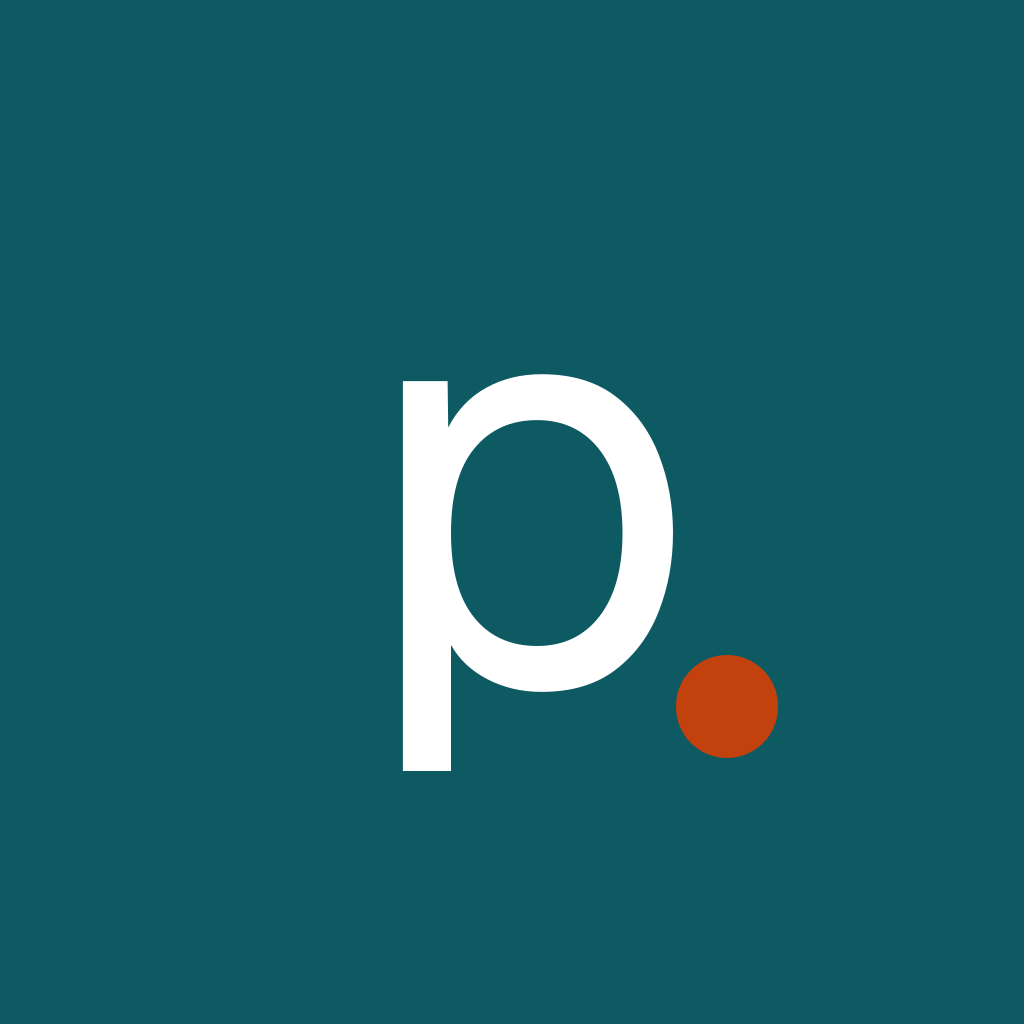
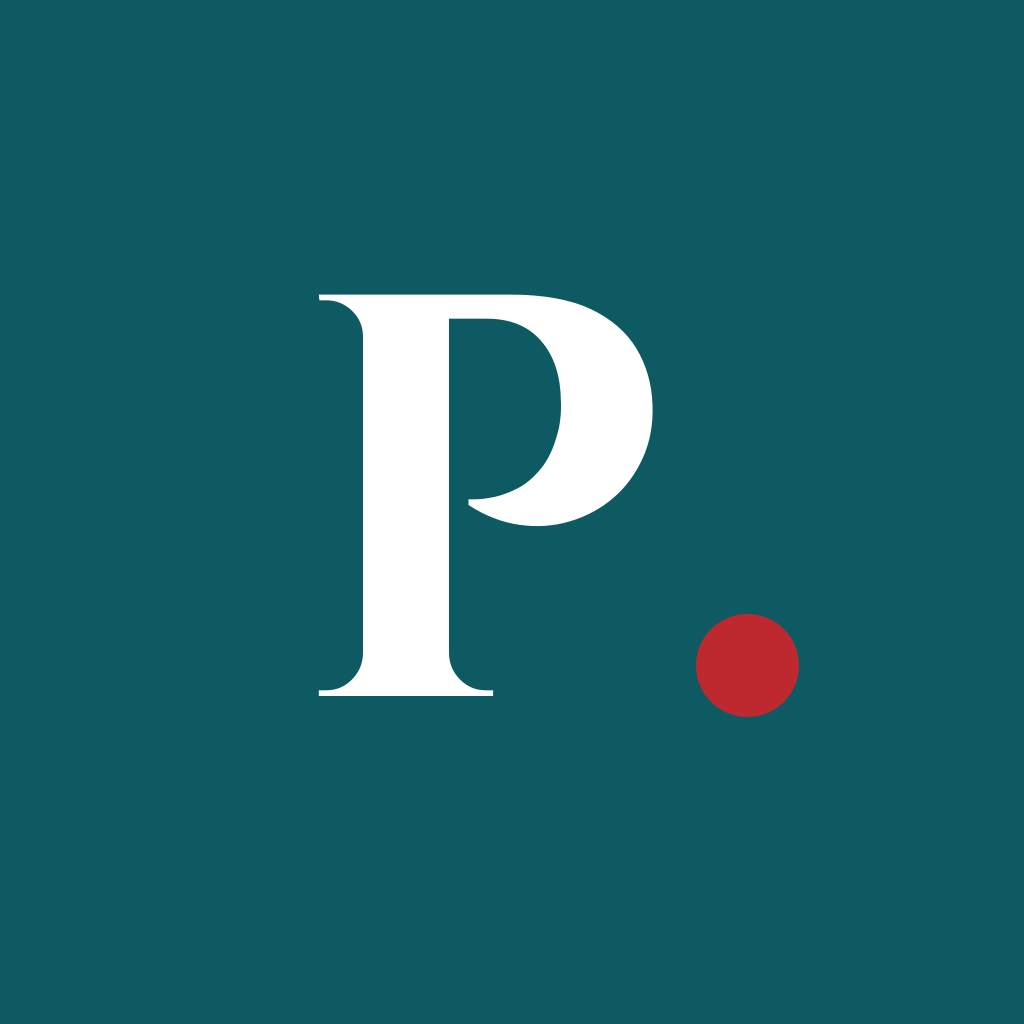
Original design back, with a Cinzel wordmark and a touch of crest red
The silver/ink/crimson redesign is reverted (the user didn't like it). On top of the original teal
design, only:

- the wordmark in Cinzel capitals ("PAXEN"), echoing the "PAX" lettering on the crest behind the name
  (web via next/font, iPhone via @expo-google-fonts/cinzel, loaded before the splash hides)
- the dot after the wordmark and on the app icon in the crest's crimson (new `crest` token, a detail
  only; red/orange for delays stays `attention`)
- the app icon: the same teal tile with a Cinzel "P" and the crimson dot
- switch thumb stays white on web (react-native-web otherwise turns it teal)

Claude-Session: https://claude.ai/code/session_01WxnpJ4hpE5FC5QPxgLUK2h

Changed region(s): [[0.3125, 0.2812, 0.6562, 0.75], [0.6562, 0.5938, 0.7812, 0.75]]

diff --git a/web/app/icons/[size]/route.tsx b/web/app/icons/[size]/route.tsx
@@ -1,3 +1,5 @@
+import { readFile } from 'node:fs/promises'
+import { join } from 'node:path'
 import { ImageResponse } from 'next/og'
 import { palettes } from '@/lib/paxen-tokens'
 
@@ -9,10 +11,13 @@ export function generateStaticParams() {
   return [...ALLOWED].map((size) => ({ size: String(size) }))
 }
 
+// Cinzel 700, subset to the single glyph "P" (SIL Open Font License), vendored so the build needs no network.
+const cinzel = readFile(join(process.cwd(), 'assets/cinzel-700-p.ttf'))
+
 export async function GET(_req: Request, { params }: { params: Promise<{ size: string }> }) {
   const { size: raw } = await params
   const size = ALLOWED.has(Number(raw)) ? Number(raw) : 192
-  const { brand, onBrand, attention } = palettes.light
+  const { brand, onBrand, crest } = palettes.light
 
   return new ImageResponse(
     (
@@ -25,26 +30,30 @@ export async function GET(_req: Request, { params }: { params: Promise<{ size: s
           justifyContent: 'center',
           background: brand,
           color: onBrand,
+          fontFamily: 'Cinzel',
           fontSize: size * 0.56,
           fontWeight: 700,
-          letterSpacing: -size * 0.03,
           position: 'relative',
         }}
       >
-        <span style={{ marginTop: -size * 0.06 }}>p</span>
+        <span style={{ marginTop: size * 0.02, marginRight: size * 0.06 }}>P</span>
         <div
           style={{
             position: 'absolute',
-            right: size * 0.24,
-            bottom: size * 0.26,
+            right: size * 0.22,
+            bottom: size * 0.3,
             width: size * 0.1,
             height: size * 0.1,
             borderRadius: size,
-            background: attention,
+            background: crest,
           }}
         />
       </div>
     ),
-    { width: size, height: size },
+    {
+      width: size,
+      height: size,
+      fonts: [{ name: 'Cinzel', data: await cinzel, weight: 700, style: 'normal' }],
+    },
   )
 }

diff --git a/mobile/src/components/transit.tsx b/mobile/src/components/transit.tsx
@@ -19,6 +19,7 @@ import { fmtTime, fmtWait } from '@/shared/format'
 import { modeColors, radii } from '@/shared/paxen-tokens'
 import { CONFIDENCE_PLAIN, stillOnChance, stillOnWords, waitBasisHint } from '@/shared/plain'
 import type { CommuteStatus, Confidence, Disruption, Leg, LineCategory, Mode, RouteOption } from '@/shared/types'
+import { WORDMARK_FONT } from '@/lib/fonts'
 import { alpha, usePalette, type Palette } from '@/lib/theme'
 import { Sheet } from './sheet'
 import { Text } from './text'
@@ -29,12 +30,13 @@ type Icon = ComponentType<{ size?: number; color?: string; strokeWidth?: number 
 /* ---------- wordmark ---------- */
 
 /** Text wordmark: lowercase, tight, with a "signal" dot that reads as on-time. */
+/** Roman capitals (Cinzel, as on the crest behind the name) and a crest-red dot. */
 export function Wordmark({ size = 22 }: { size?: number }) {
   const p = usePalette()
   return (
-    <View accessibilityLabel="Paxen" style={{ flexDirection: 'row', alignItems: 'flex-end' }}>
-      <Text style={{ fontSize: size, lineHeight: size * 1.1, fontWeight: '800', letterSpacing: -0.055 * size, color: p.brand }}>paxen</Text>
-      <View style={{ width: size * 0.26, height: size * 0.26, borderRadius: size, backgroundColor: p.success, marginLeft: size * 0.08, marginBottom: size * 0.16 }} />
+    <View accessible accessibilityLabel="Paxen" style={{ flexDirection: 'row', alignItems: 'flex-end' }}>
+      <Text style={{ fontFamily: WORDMARK_FONT, fontSize: size, lineHeight: size * 1.2, letterSpacing: 0.06 * size, color: p.brand }}>PAXEN</Text>
+      <View style={{ width: size * 0.22, height: size * 0.22, borderRadius: size, backgroundColor: p.crest, marginLeft: size * 0.04, marginBottom: size * 0.26 }} />
     </View>
   )
 }

diff --git a/mobile/src/app/_layout.tsx b/mobile/src/app/_layout.tsx
@@ -1,11 +1,13 @@
 import { useEffect } from 'react'
 import { AppState, useColorScheme } from 'react-native'
 import { DarkTheme, DefaultTheme, Stack, ThemeProvider, router } from 'expo-router'
+import { useFonts } from 'expo-font'
 import * as SplashScreen from 'expo-splash-screen'
 import { StatusBar } from 'expo-status-bar'
 import { SafeAreaProvider } from 'react-native-safe-area-context'
 import { SWRConfig } from 'swr'
 import { palettes } from '@/shared/paxen-tokens'
+import { fonts } from '@/lib/fonts'
 import { revalidateAll, useToken } from '@/lib/hooks'
 import { initPush } from '@/lib/push'
 
@@ -18,10 +20,12 @@ export default function RootLayout() {
   const scheme = useColorScheme() === 'dark' ? 'dark' : 'light'
   const p = palettes[scheme]
   const token = useToken()
+  const [fontsLoaded, fontError] = useFonts(fonts)
+  const fontsReady = fontsLoaded || !!fontError // without the font the wordmark falls back to the system face
 
   useEffect(() => {
-    if (token !== undefined) void SplashScreen.hideAsync().catch(() => {})
-  }, [token])
+    if (token !== undefined && fontsReady) void SplashScreen.hideAsync().catch(() => {})
+  }, [token, fontsReady])
 
   useEffect(() => initPush((route) => router.push(route as never), !!token), [token])
 

diff --git a/web/components/paxen/app-header.tsx b/web/components/paxen/app-header.tsx
@@ -2,18 +2,18 @@ import { FlaskConical, Radio } from 'lucide-react'
 import { cn } from '@/lib/utils'
 import { Chip } from './primitives/chip'
 
-/** Text wordmark: lowercase, tight, with a "signal" dot that reads as on-time. */
+/** Text wordmark: Roman capitals (Cinzel, as on the crest behind the name) and a crest-red dot. */
 export function Wordmark({ className, size = 22 }: { className?: string; size?: number }) {
   return (
     <span
-      className={cn('inline-flex items-baseline text-px-brand', className)}
-      style={{ fontSize: size, lineHeight: 1, fontWeight: 800, letterSpacing: '-0.055em' }}
+      className={cn('inline-flex items-baseline font-serif text-px-brand', className)}
+      style={{ fontSize: size, lineHeight: 1, fontWeight: 700, letterSpacing: '0.06em' }}
     >
-      paxen
+      PAXEN
       <span
         aria-hidden
-        className="ml-[0.08em] inline-block rounded-full bg-px-success"
-        style={{ width: size * 0.26, height: size * 0.26 }}
+        className="ml-[0.1em] inline-block rounded-full bg-px-crest"
+        style={{ width: size * 0.22, height: size * 0.22 }}
       />
     </span>
   )

diff --git a/web/app/layout.tsx b/web/app/layout.tsx
@@ -1,10 +1,12 @@
 import { Analytics } from '@vercel/analytics/next'
 import type { Metadata, Viewport } from 'next'
-import { Inter } from 'next/font/google'
+import { Cinzel, Inter } from 'next/font/google'
 import { paxenCssVariables, palettes } from '@/lib/paxen-tokens'
 import './globals.css'
 
 const inter = Inter({ subsets: ['latin'], variable: '--font-inter', display: 'swap' })
+// Roman capitals for the wordmark only (echoing the "PAX" lettering on the crest behind the name).
+const cinzel = Cinzel({ subsets: ['latin'], weight: ['700'], variable: '--font-cinzel', display: 'swap' })
 
 export const metadata: Metadata = {
   title: 'Paxen — know when your normal commute is not normal',
@@ -37,7 +39,7 @@ export default function RootLayout({
   children: React.ReactNode
 }>) {
   return (
-    <html lang="en-GB" className={`${inter.variable} bg-px-canvas`}>
+    <html lang="en-GB" className={`${inter.variable} ${cinzel.variable} bg-px-canvas`}>
       <head>
         <style id="paxen-tokens" dangerouslySetInnerHTML={{ __html: paxenCssVariables() }} />
       </head>

diff --git a/mobile/src/shared/paxen-tokens.ts b/mobile/src/shared/paxen-tokens.ts
@@ -27,6 +27,9 @@ export interface Palette {
   onBrand: string
   brandSoft: string
   onBrandSoft: string
+  /** The crimson of the school crest behind the name. A small detail only (the dot after the wordmark, the app
+   * icon); never a status. Red/orange for delays and disruption is `attention`. */
+  crest: string
   success: string
   successSoft: string
   onSuccessSoft: string
@@ -58,6 +61,7 @@ const light: Palette = {
   onBrand: '#FFFFFF',
   brandSoft: '#DDEBEC',
   onBrandSoft: '#0B4950',
+  crest: '#BE292F',
   success: '#1B7A4B',
   successSoft: '#DEF0E5',
   onSuccessSoft: '#13593A',
@@ -89,6 +93,7 @@ const dark: Palette = {
   onBrand: '#062B2F',
   brandSoft: '#13363A',
   onBrandSoft: '#A3DDE3',
+  crest: '#E25A5F',
   success: '#4FC98C',
   successSoft: '#123324',
   onSuccessSoft: '#93E3B9',

diff --git a/web/lib/paxen-tokens.ts b/web/lib/paxen-tokens.ts
@@ -26,6 +26,9 @@ export interface Palette {
   onBrand: string
   brandSoft: string
   onBrandSoft: string
+  /** The crimson of the school crest behind the name. A small detail only (the dot after the wordmark, the app
+   * icon); never a status. Red/orange for delays and disruption is `attention`. */
+  crest: string
   success: string
   successSoft: string
   onSuccessSoft: string
@@ -57,6 +60,7 @@ const light: Palette = {
   onBrand: '#FFFFFF',
   brandSoft: '#DDEBEC',
   onBrandSoft: '#0B4950',
+  crest: '#BE292F',
   success: '#1B7A4B',
   successSoft: '#DEF0E5',
   onSuccessSoft: '#13593A',
@@ -88,6 +92,7 @@ const dark: Palette = {
   onBrand: '#062B2F',
   brandSoft: '#13363A',
   onBrandSoft: '#A3DDE3',
+  crest: '#E25A5F',
   success: '#4FC98C',
   successSoft: '#123324',
   onSuccessSoft: '#93E3B9',

diff --git a/mobile/src/components/controls.tsx b/mobile/src/components/controls.tsx
@@ -8,6 +8,9 @@ import { Sheet } from './sheet'
 import { Text, textStyle } from './text'
 import { Button } from './ui'
 
+// react-native-web colours the "on" thumb teal unless told otherwise (iOS keeps the white thumbColor).
+const WEB_THUMB = { activeThumbColor: '#FFFFFF' } as object
+
 export function Switch({ checked, onChange, label, disabled }: { checked: boolean; onChange: (v: boolean) => void; label: string; disabled?: boolean }) {
   const p = usePalette()
   return (
@@ -19,6 +22,7 @@ export function Switch({ checked, onChange, label, disabled }: { checked: boolea
       trackColor={{ true: p.brand, false: p.borderStrong }}
       thumbColor="#FFFFFF"
       ios_backgroundColor={p.borderStrong}
+      {...WEB_THUMB}
     />
   )
 }

diff --git a/web/app/globals.css b/web/app/globals.css
@@ -7,6 +7,7 @@
 
 @theme inline {
   --font-sans: var(--font-inter), ui-sans-serif, system-ui, sans-serif;
+  --font-serif: var(--font-cinzel), ui-serif, Georgia, serif;
 
   --color-px-canvas: var(--px-canvas);
   --color-px-surface: var(--px-surface);
@@ -23,6 +24,7 @@
   --color-px-on-brand: var(--px-on-brand);
   --color-px-brand-soft: var(--px-brand-soft);
   --color-px-on-brand-soft: var(--px-on-brand-soft);
+  --color-px-crest: var(--px-crest);
   --color-px-success: var(--px-success);
   --color-px-success-soft: var(--px-success-soft);
   --color-px-on-success-soft: var(--px-on-success-soft);

diff --git a/mobile/src/lib/fonts.ts b/mobile/src/lib/fonts.ts
@@ -1,0 +1,6 @@
+import { Cinzel_700Bold } from '@expo-google-fonts/cinzel'
+
+/** The wordmark's Roman capitals (Cinzel, SIL Open Font License). Loaded in app/_layout.tsx before the splash hides;
+ * used for the wordmark only, never for data, times or buttons. */
+export const WORDMARK_FONT = 'Cinzel_700Bold'
+export const fonts = { [WORDMARK_FONT]: Cinzel_700Bold }
